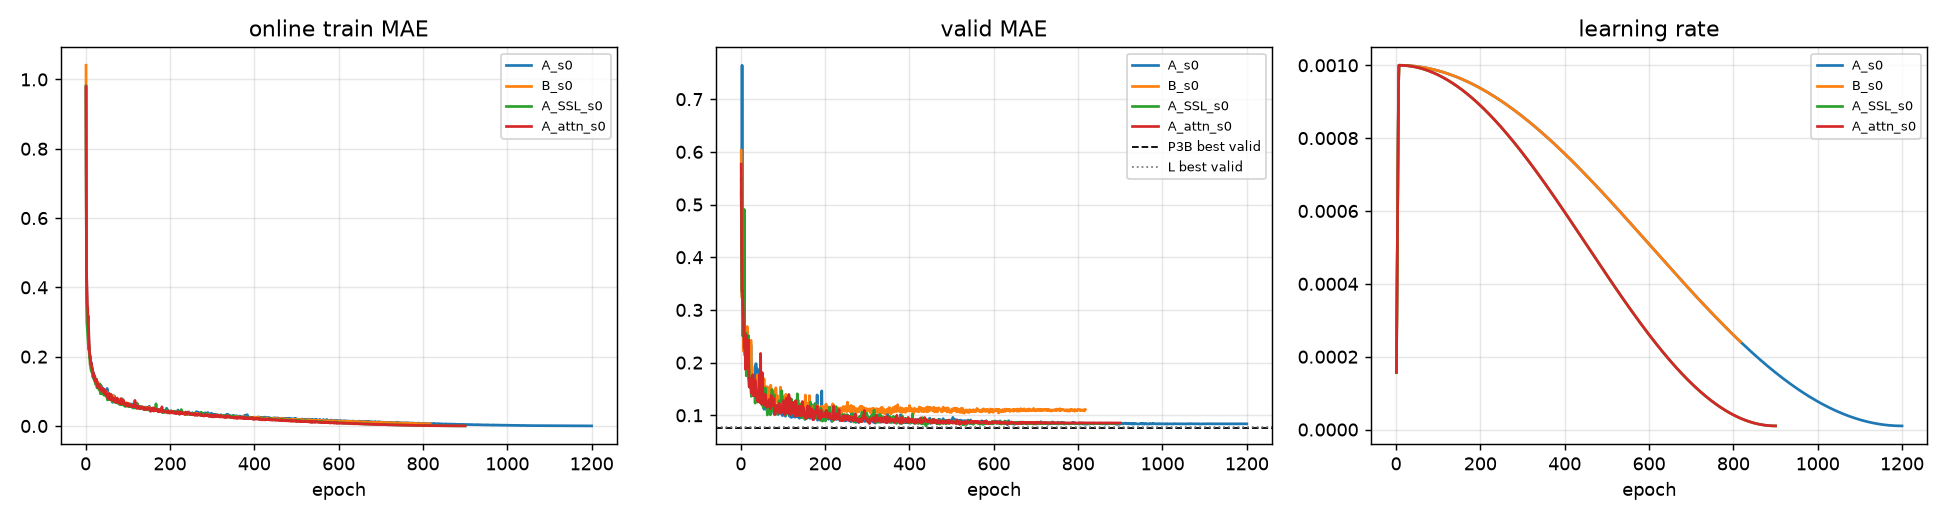
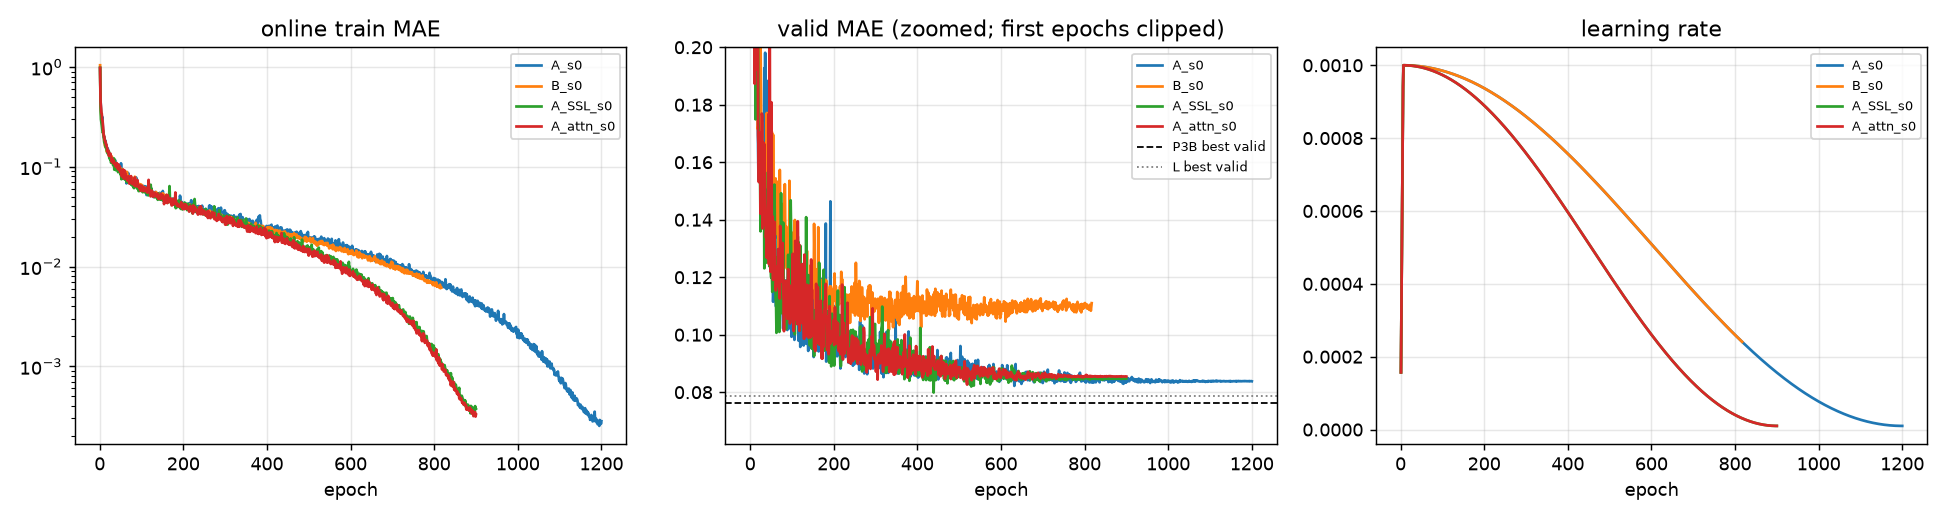
zae v3: log-scale train panel and zoomed valid panel in the curve figure

diff --git a/tracks/structural-sufficiency/zinc_arch_exploration_v3/code/zae_analysis.py b/tracks/structural-sufficiency/zinc_arch_exploration_v3/code/zae_analysis.py
@@ -323,7 +323,9 @@ def main() -> int:
             axes[1].plot(ep, [float(e["valid_mae"]) for e in curve], label=arm)
             axes[2].plot(ep, [float(e["lr"]) for e in curve], label=arm)
         axes[0].set_title("online train MAE")
-        axes[1].set_title("valid MAE")
+        axes[0].set_yscale("log")
+        axes[1].set_title("valid MAE (zoomed; first epochs clipped)")
+        axes[1].set_ylim(0.062, 0.20)
         axes[1].axhline(float(infos["P3B_s0"]["fixed_objects"]["best"]["valid_mae"]),
                         color="k", ls="--", lw=1, label="P3B best valid")
         axes[1].axhline(float(infos["L_s0"]["fixed_objects"]["best"]["valid_mae"]),

diff --git a/tracks/structural-sufficiency/zinc_arch_exploration_v3/REPORT.md b/tracks/structural-sufficiency/zinc_arch_exploration_v3/REPORT.md
@@ -54,6 +54,9 @@ they are "new trunk on the same feature family", not new features.
 | **A_SSL_s0** | 488,601 | 0.079876146 | 439 | 0.017018 | 0.084783518 | 141,300 | P3 masked SSL encoders + native A-SSL pretrain | completed | 1.84 |
 | **A_attn_s0** | 488,889 | 0.082637432 | 519 | 0.012976 | 0.085459559 | 141,300 | P3 masked SSL encoders | completed | 2.02 |
 
+Curves (train, valid, learning rate) for all four arms:
+`analysis/curves.png`; the valid panel is zoomed to the competitive region.
+
 Horizon-robust check (best valid inside the learning-rate band
 `lr ∈ (1e-4, 3e-4]`, i.e. the band in which every reference model sets its best,
 so a longer declared horizon cannot flatter a run):
